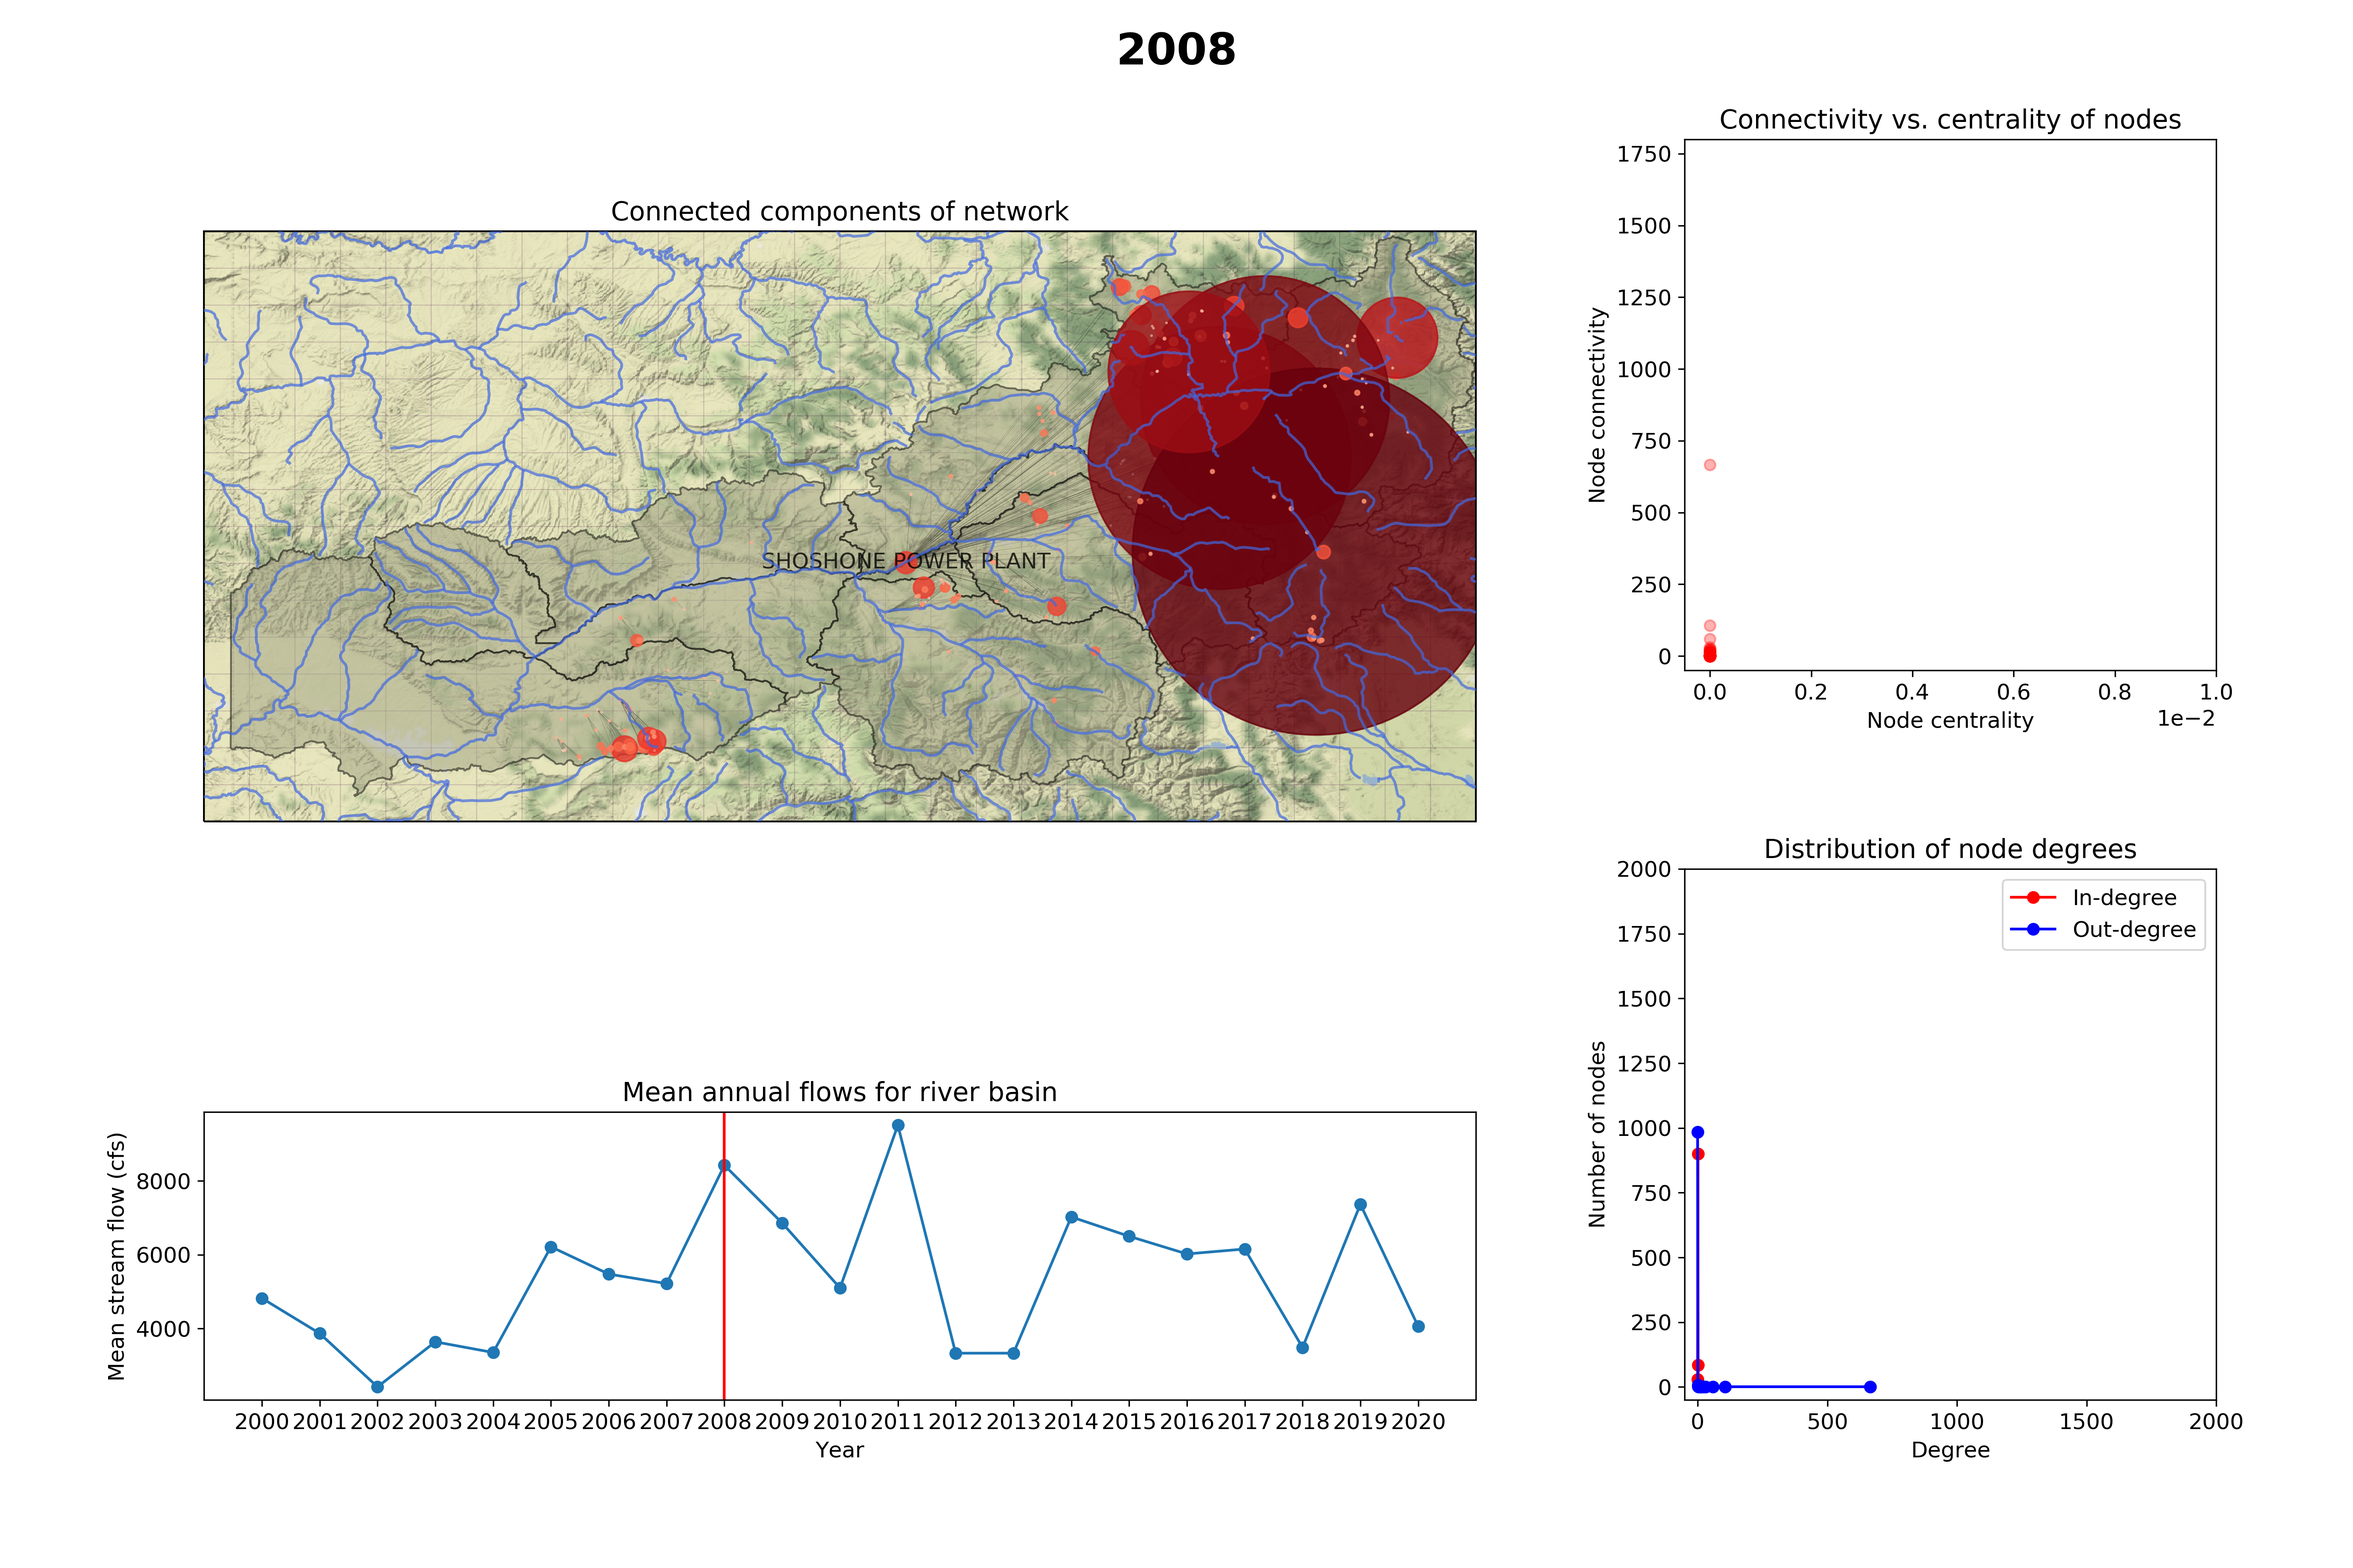
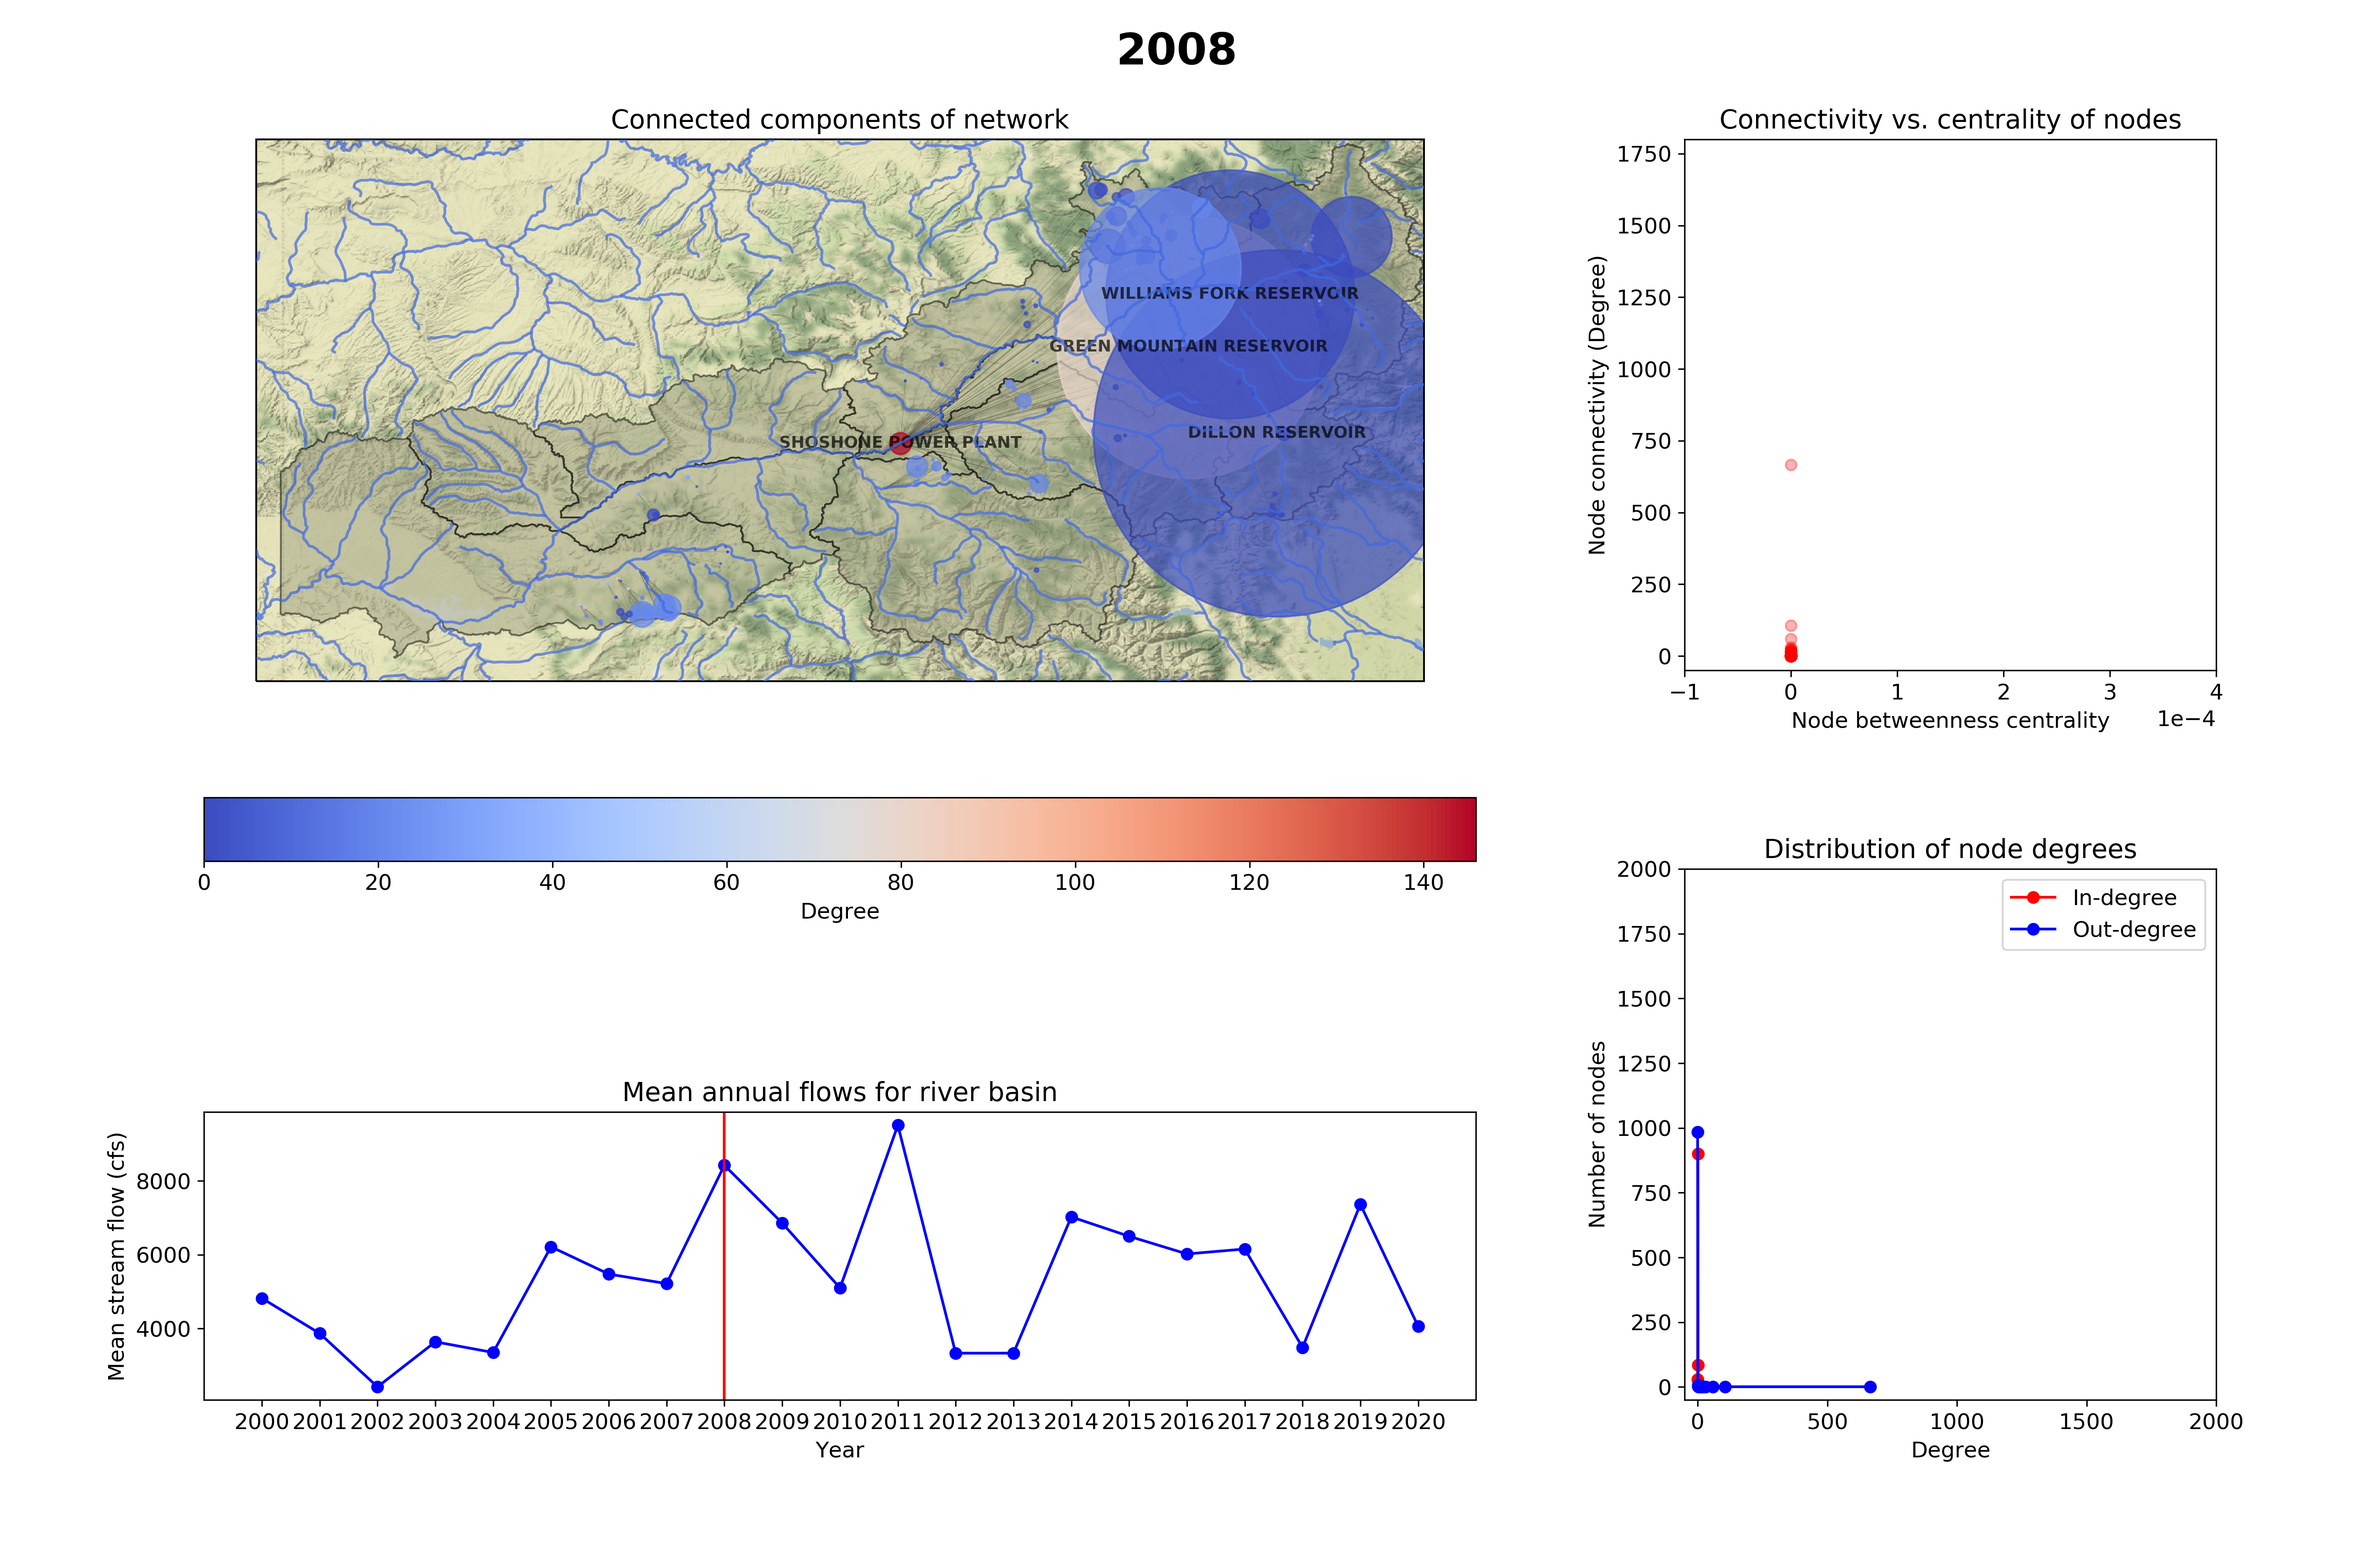
updated network plots

diff --git a/networks_scripts/ucrb_1year_map_network.py b/networks_scripts/ucrb_1year_map_network.py
@@ -9,6 +9,8 @@ from cartopy.feature import ShapelyFeature
 import cartopy.crs as ccrs
 import cartopy.io.img_tiles as cimgt
 import cartopy.feature as cfeature
+import seaborn as sns
+from matplotlib.colors import ListedColormap
 
 ################################################################################################################
 '''Function that creates a network with edge and node attributes for a given year'''
@@ -69,7 +71,7 @@ def plot_network_graph(G, year):
                                    ccrs.PlateCarree(), edgecolor='black', facecolor='None')
     # Stream lines
     flow_feature = ShapelyFeature(Reader('../data/UCRBstreams.shp').geometries(),
-                                  ccrs.PlateCarree(), edgecolor='royalblue', facecolor='None')
+                                  ccrs.PlateCarree(), edgecolor='royalblue', facecolor='None', alpha=0.5)
 
     # 1. SUBPLOT OF NETWORK MAP
     # the first subplot will span 6 rows and 4 columns, top left
@@ -85,7 +87,7 @@ def plot_network_graph(G, year):
     # Draw streams
     ax0.add_feature(flow_feature, alpha=0.7, linewidth=1.5, zorder=10)
     # Draw grid
-    ax0.pcolor(X, Y, Z, facecolor='none', edgecolor='grey', alpha=0.1, linewidth=0.5, transform=ccrs.PlateCarree())
+    # ax0.pcolor(X, Y, Z, facecolor='none', edgecolor='grey', alpha=0.1, linewidth=0.5, transform=ccrs.PlateCarree())
 
 
 
@@ -108,28 +110,38 @@ def plot_network_graph(G, year):
     top_nodes_list = [n for n,d in top_nodes]
     Gcc = G.subgraph(top_nodes_list)
 
-    # Add labels only for important users (nodes with degree >= 100)
-    labels = {iata: name if nx.degree(Gcc)[iata] >= 100 else '' for iata, name in list(nx.get_node_attributes(Gcc, 'name').items())}
 
-    # Color nodes by net absolute volume (in cfs) allocation
+    # Color nodes by degree
+    # my_cmap = ListedColormap(sns.color_palette("ch:start=.2,rot=-.3"))
+    degs = Gcc.degree() # Dict with Node ID, Degree
+    nod = Gcc.nodes()
+    color = np.asarray([np.log10(degs[n]) for n in nod])
+    # print(sorted(color, reverse=True))
+
+    # Size nodes by net absolute volume
     net_abs = nx.get_node_attributes(Gcc, 'netAbs')
-    color = [np.log10(net_abs[i]) for i in Gcc.nodes]
-    print(sorted(color, reverse=True))
-
-    # Size nodes by net absolute volume also
     sizes = [net_abs[i]/10 for i in Gcc.nodes]
     # sizes = [np.ceil(c + 5)*50 for c in color]
 
-    nx.draw_networkx(Gcc, ax = ax0, pos=pos, edge_color='black', alpha=0.8, arrows=False,
-                     with_labels=True, node_color = color, cmap=plt.cm.Reds,
-                     node_size=sizes, labels=labels, width = 0.1)
+    # Add labels only for important users (nodes with degree >= 50 or with 99th percentile volumes)
+
+    cutoff_vol = np.percentile(list(net_abs.values()), 99)
+    labels = {i: name if (nx.degree(Gcc)[i] >= 50 or net_abs[i] >= cutoff_vol) else '' for i, name in
+                    list(nx.get_node_attributes(Gcc, 'name').items())}
+
+    nx.draw_networkx(Gcc, ax = ax0, pos=pos, edge_color='black', alpha=0.7, arrows=False,
+                     with_labels=True, node_color = color, cmap=plt.cm.coolwarm,
+                     node_size=sizes, labels=labels, width = 0.1, font_size=9, font_weight='bold')
+    sm = plt.cm.ScalarMappable(cmap=plt.cm.coolwarm, norm=plt.Normalize(vmin=10**(min(color)), vmax=10**(max(color))))
+    sm._A = []
+    plt.colorbar(sm, ax=ax0, orientation='horizontal', label='Degree')
 
 
     # 2. SUBPLOT OF MEAN ANNUAL FLOWS
     # the second subplot will span 2 rows and 4 columns, bottom left
     ax1 = fig.add_subplot(gspec[4:, :6])
     flows = pd.read_csv('../data/UCRB_mean_annual_flows.csv')
-    ax1.plot(flows['year_nu'], flows['mean_va'], marker='o')
+    ax1.plot(flows['year_nu'], flows['mean_va'], 'bo-')
     ax1.set_xlabel('Year')
     ax1.set_ylabel('Mean stream flow (cfs)')
     ax1.set_title("Mean annual flows for river basin")
@@ -143,11 +155,11 @@ def plot_network_graph(G, year):
     connectivity_values = [n[1] for n in connectivity]
     centrality = nx.betweenness_centrality(G).values()
     ax2.plot(centrality, connectivity_values, 'ro', alpha=0.3)
-    ax2.set_xlabel('Node centrality')
-    ax2.set_ylabel('Node connectivity')
+    ax2.set_xlabel('Node betweenness centrality')
+    ax2.set_ylabel('Node connectivity (Degree)')
     ax2.set_title('Connectivity vs. centrality of nodes')
     ax2.set_ylim([-50,1800])
-    ax2.set_xlim([-0.0005, 0.01])
+    ax2.set_xlim([-0.0001, 0.0004])
     ax2.ticklabel_format(scilimits=(0,4))
 
     # 4. SUBPLOT OF # NODES VS. DEGREE FOR INS & OUTS
@@ -177,7 +189,9 @@ def plot_network_graph(G, year):
 
 
     plt.tight_layout(pad=5)
+    # plt.colorbar(plt.cm.coolwarm, ax=ax0, orientation='horizontal')
     plt.savefig('yearly_networks_plots/' + year + '_25percent' + '.png', dpi=300)
+
 
 
     return

diff --git a/networks_scripts/clean_year_data.py b/networks_scripts/clean_year_data.py
@@ -63,7 +63,7 @@ import networkx as nx
 
 ######################################################################################################################
 
-# '''Create .csv file with network node attributes'''
+'''Create .csv file with network node attributes'''
 #
 # df = pd.read_csv('../data/DWR_REST_WaterRights.csv')
 # print(df.head())

diff --git a/networks_scripts/scratch.py b/networks_scripts/scratch.py
@@ -17,9 +17,6 @@ import math
 # print(d)
 
 
-a = [('A', 1), ('B', 2), ('C', 3), ('D', 4), ('E', 5)]
+a = dict([('A', 1), ('B', 2), ('C', 3), ('D', 4), ('E', 5)])
 
-factor = int(math.ceil(0.4*len(a)))
-print(factor)
-top = sorted(a, key = lambda x: x[1], reverse = True)[:factor]
-print(top)
+print(list(a.values()))
